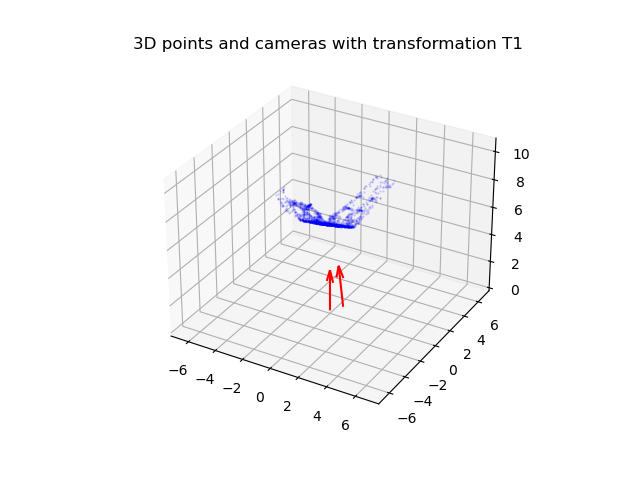
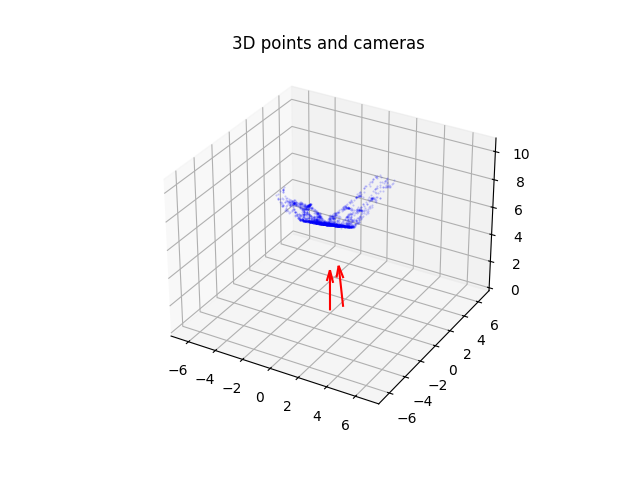
feat: continuation assignment 3

Changed region(s): [[0.2188, 0.0625, 0.8125, 0.125], [0.7812, 0.5312, 0.8125, 0.5625]]

diff --git a/assignment3/compEx3.py b/assignment3/compEx3.py
@@ -30,6 +30,7 @@ if __name__ == "__main__":
 
     P2_best = None
     X_best = None
+    camera_counter= 0
     for P2 in P2s:
         Xj = []
         positive_depth_count = 0
@@ -46,6 +47,8 @@ if __name__ == "__main__":
         if positive_depth_count == N:
             X_best = Xj
             P2_best = P2
+            print('Best camera is: ', camera_counter)
+        camera_counter = camera_counter + 1
 
     if P2_best is None or X_best is None:
         raise ValueError('No valid P2 found')
@@ -64,7 +67,7 @@ if __name__ == "__main__":
     x1_proj = pflat(P1@X)
 
     plt.figure()
-    plt.title('[...]')
+    plt.title('Comparing original and reprojected 3D points')
     plt.plot(x_unnormalized[0, 0, :], x_unnormalized[0, 1, :], 'ro', alpha=0.3, markersize=1, label='Original points')
     plt.plot(x1_proj[0, :], x1_proj[1, :], 'bo', alpha=0.3, markersize=1, label='Reprojected 3D points')
     plt.legend(loc='upper right', fontsize=10, markerscale=10)
@@ -78,7 +81,7 @@ if __name__ == "__main__":
     ax.plot(X[0], X[1], X[2], 'bo', alpha=0.2, markersize=0.5)
     plotcams([P1, P2], ax=ax, scale=3)
     plt.axis('equal')
-    plt.title('[...]')
+    plt.title('3D points and cameras')
     plt.savefig('plots/compEx3_plot2.png')
     plt.show()
     plt.close()

diff --git a/assignment3/compEx2.py b/assignment3/compEx2.py
@@ -27,12 +27,15 @@ if __name__ == "__main__":
     
     U, S, Vt = np.linalg.svd(E)
     E = U@np.diag([1,1,0])@Vt
+    enforce_essential(E)
 
     np.save('variables/E.npy', E)
 
     epipolar_constraint = x[1].T@E@x[0].diagonal()
     assert np.allclose(epipolar_constraint, np.zeros_like(epipolar_constraint), atol=3.5e-1), f'Epipolar constraint not fulfilled! Max deviation: {np.max(np.abs(epipolar_constraint))}'
 
+    print('Essential matrix E: ', E/E[-1, -1])
+    
     F_unnormalized = convert_E_to_F(E, K, K)
     
     indices = np.random.choice(x_unnormalized[0].shape[-1], size=20, replace=False)

diff --git a/assignment3/compEx1.py b/assignment3/compEx1.py
@@ -29,6 +29,7 @@ if __name__ == "__main__":
     
     F = estimate_F_DLT(x_normalized[0], x_normalized[1])
     F = N2.T@F@N1
+    print('Fundamental matrix F for the normalized points', F/F[-1, -1])
     enforce_fundamental(F)
 
     assert np.allclose(np.mean(x_normalized[0], axis=0), 0, atol=3), "Mean of normalized x is not zero"
